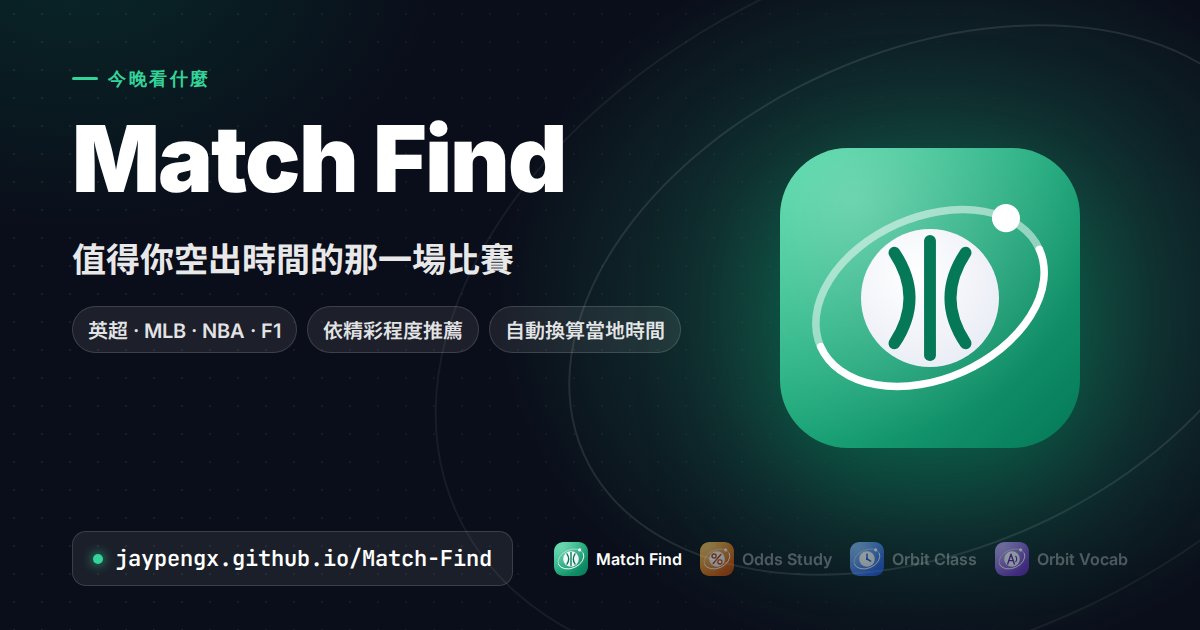
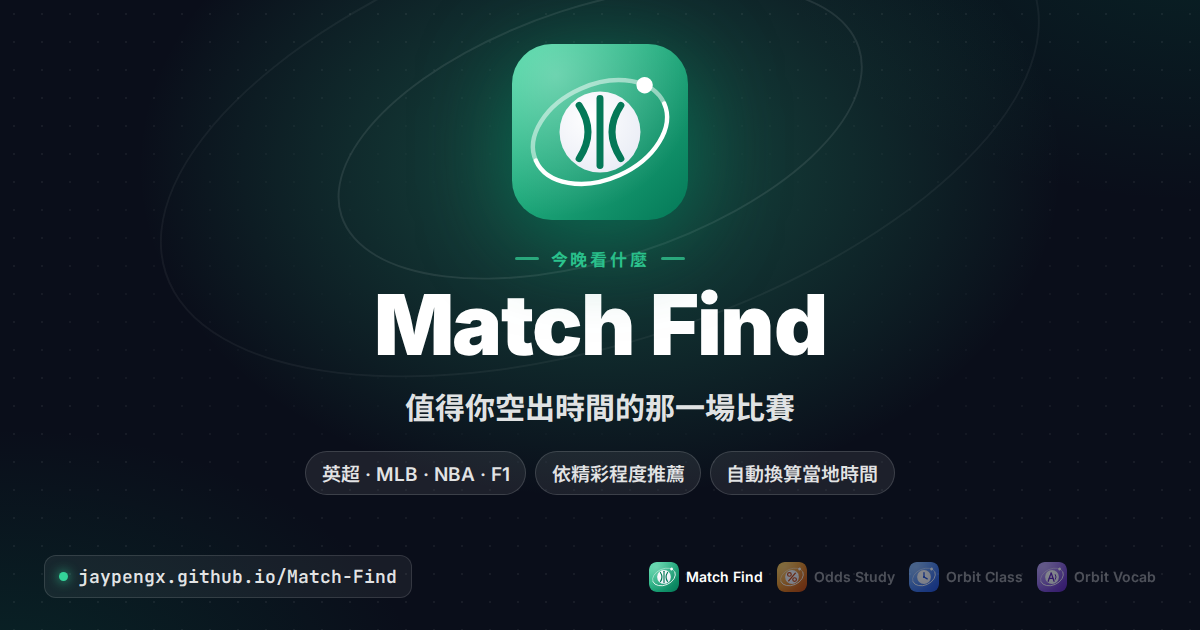
Make link previews work at thumbnail size too
Many apps (WhatsApp, Telegram, LINE, iMessage, Slack's compact view) don't show the wide card - they crop its middle to a small square. The wide card is now laid out around its center, so that crop still shows the icon and the app name; the URL and the app family strip sit in the outer corners.

Adds a 1200x1200 square card as a second og:image for platforms that pick a square image, plus og:image:alt / twitter:image:alt text.

Claude-Session: https://claude.ai/code/session_011gRUGYTdy3QH8ZGKD1vFqq

diff --git a/public/index.html b/public/index.html
@@ -43,11 +43,17 @@
 <meta property="og:image" content="https://jaypengx.github.io/Match-Find/og-image.png" />
 <meta property="og:image:width" content="1200" />
 <meta property="og:image:height" content="630" />
+<meta property="og:image:alt" content="Match Find — 今晚看什麼" />>
+<meta property="og:image" content="https://jaypengx.github.io/Match-Find/og-image-square.png" />>
+<meta property="og:image:width" content="1200" />>
+<meta property="og:image:height" content="1200" />>
+<meta property="og:image:alt" content="Match Find — 今晚看什麼" />>
 <meta property="og:url" content="https://jaypengx.github.io/Match-Find/" />
 <meta name="twitter:card" content="summary_large_image" />
 <meta name="twitter:title" content="Match Find — 今晚看什麼" />
 <meta name="twitter:description" content="英超、MLB、NBA、F1 賽程，依精彩程度推薦，換算成你的當地時間。" />
 <meta name="twitter:image" content="https://jaypengx.github.io/Match-Find/og-image.png" />
+<meta name="twitter:image:alt" content="Match Find — 今晚看什麼" />>
 <!-- Opens the connections every first load needs while app.js is still
      downloading: the sports proxy (every match/odds request - crossorigin,
      since those are CORS fetches) and ESPN's image CDN (every logo). -->
